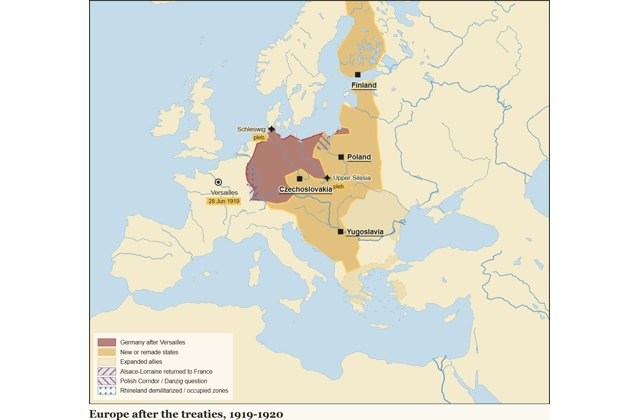
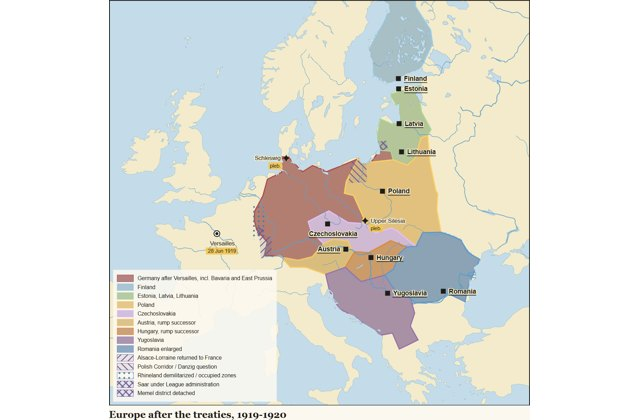
Refine First World War round five plates
Copilot-Session: 37f2f47f-8b63-49cd-b8ce-cded564ac449

diff --git a/atlas/plates/western-front-1914-1918.js b/atlas/plates/western-front-1914-1918.js
@@ -1,22 +1,30 @@
 (function(){
- const GER="#8c3b3b", ENT="#4c78a8", CAN="#b22d2d", ROAD="#5b4a3f", SPR="#d95733";
- const trench=[[-1.8,50.8],[2.9,50.9],[3.1,50.5],[2.8,50.0],[3.4,49.5],[4.1,49.1],[5.4,49.2],[5.8,48.8]];
- const spring=[[2.0,50.2],[2.9,49.9],[3.0,49.4],[4.0,49.0]];
- window.PLATES["western-front-1914-1918"]={id:"western-front-1914-1918",title:"The Western Front, 1914-1918",head:"First World War / Western theatre",folio:"124-125",viewer:"ww1/1917/ch-western-front",figures:[{caption:"From movement to trench war and the Hundred Days",share:0.76,extent:[[-2,47],[8,52]],projection:"conic",layers:[
-  {id:"france-belgium",type:"area",hist:{year:1914,names:["France","Belgium"]},colour:ENT,tier:"influence",legend:"Entente ground"},
-  {id:"germany",type:"area",hist:{year:1914,names:["German Empire"]},colour:GER,tier:"influence",legend:"German Empire edge"},
-  {id:"german-1914",type:"arrow",colour:GER,width:10,path:[[6.1,50.8],[4.35,50.85],[2.35,48.86],[3.0,49.0]],label:"Schlieffen",date:"1914",legend:"German advance, 1914"},
-  {id:"marne-turn",type:"arrow",colour:ENT,width:8,path:[[2.35,48.86],[3.0,49.0],[4.0,49.2]],label:"Marne"},
+ const GER="#8c3b3b", ENT="#4c78a8", CAN="#b22d2d", NFLD="#7a5a8c", ROAD="#5b4a3f", SPR="#d95733", OCC="#9b6a4a";
+ const trench=[[2.75,51.13],[2.88,50.85],[2.78,50.37],[2.65,49.95],[3.0,49.58],[3.32,49.38],[4.03,49.25],[4.9,49.2],[5.38,49.16],[5.54,48.9],[6.05,48.9],[7.15,47.5]];
+ const occBelgium=[[2.75,51.13],[2.88,50.85],[2.78,50.37],[2.65,49.95],[6.2,49.95],[6.2,51.55],[2.75,51.55],[2.75,51.13]];
+ const occFrance=[[2.78,50.37],[2.65,49.95],[3.0,49.58],[3.32,49.38],[4.03,49.25],[4.9,49.2],[5.38,49.16],[5.54,48.9],[6.05,48.9],[7.15,47.5],[8.0,47.5],[8.0,51.1],[2.78,50.37]];
+ const spring=[[2.0,50.3],[2.6,50.05],[2.75,49.7],[3.2,49.45],[4.0,49.2]];
+ window.PLATES["western-front-1914-1918"]={id:"western-front-1914-1918",title:"The Western Front, 1914-1918",head:"First World War / Western theatre",folio:"124-125",viewer:"ww1/1917/ch-western-front",figures:[{caption:"The Western Front from the Marne to Mons",share:0.72,extent:[[-0.5,47.3],[8,51.6]],projection:"conic",layers:[
+  {id:"france-belgium",type:"area",hist:{year:1914,names:["France","Belgium"]},colour:ENT,tier:"influence",legend:"France and Belgium, Entente ground"},
+  {id:"occupied-belgium",type:"area",hist:{year:1914,names:["Belgium"]},clipPolygon:occBelgium,pattern:"hatch",colour:OCC,legend:"German-occupied Belgium and north-east France, behind the trench line"},
+  {id:"occupied-france",type:"area",hist:{year:1914,names:["France"]},clipPolygon:occFrance,pattern:"hatch",colour:OCC},
+  {id:"schlieffen",type:"arrow",colour:GER,width:9,path:[[6.08,50.78],[5.58,50.63],[4.35,50.85],[3.95,50.45],[2.35,48.86],[1.8,48.6]],date:"1914",legend:"German sweep through Belgium toward Paris"},
+  {id:"marne-turn",type:"arrow",colour:ENT,width:8,path:[[2.0,48.75],[3.0,49.0],[3.7,49.25]],label:"Marne",date:"Sep 1914",legend:"Marne counter-stroke toward the Aisne"},
   {id:"trench",type:"boundary",style:"solid",colour:ROAD,path:trench,legend:"Main trench line, 1915-17"},
   {id:"spring",type:"boundary",style:"dashed",colour:SPR,path:spring,legend:"German spring offensive limit, 1918"},
-  {id:"hundred",type:"arrow",colour:ENT,width:8,path:[[2.30,49.89],[3.1,50.0],[4.0,49.7],[5.0,49.5]]},
-  {id:"ypres",type:"point",symbol:"battle",at:[2.89,50.85],name:"Ypres",labelPos:"nw",tag:{text:"1915 gas",colour:CAN}},
-  {id:"beaumont",type:"point",symbol:"battle",at:[2.65,50.07],name:"Beaumont-Hamel",labelPos:"sw",tag:{text:"1 Jul 1916",colour:CAN}},
-  {id:"vimy",type:"point",symbol:"battle",at:[2.77,50.38],name:"Vimy",labelPos:"e",tag:{text:"Can.",colour:CAN}},
-  {id:"passch",type:"point",symbol:"battle",at:[3.02,50.90],name:"Passchendaele",labelPos:"e",tag:{text:"1917",colour:CAN}},
-  {id:"verdun",type:"point",symbol:"battle",at:[5.39,49.16],name:"Verdun",labelPos:"e",tag:{text:"1916",colour:"#f1c75b"}},
-  {id:"somme",type:"point",symbol:"battle",at:[2.75,50.0],name:"Somme",labelPos:"e",tag:{text:"1916",colour:"#f1c75b"}},
-  {id:"amiens",type:"point",symbol:"battle",at:[2.30,49.89],name:"Amiens",labelPos:"s",tag:{text:"8 Aug",colour:CAN}},
-  {id:"compiegne",type:"point",symbol:"treaty",at:[2.90,49.42],name:"Compiègne",labelPos:"s",tag:{text:"11 Nov",colour:"#f1c75b"}}
- ],legend:{position:"bottom-left",columns:1}},{caption:"Canadian sequence on the Western Front",kind:"diagram",share:0.24,diagram:{height:0.56,nodes:[{id:"cy",label:"Ypres\n1915",x:0.12,y:0.34,w:0.15,h:0.15,colour:CAN,strong:true},{id:"cs",label:"Somme /\nBeaumont-Hamel\n1916",x:0.32,y:0.34,w:0.20,h:0.17,colour:CAN},{id:"cv",label:"Vimy\nApr. 1917",x:0.53,y:0.34,w:0.17,h:0.15,colour:CAN,strong:true},{id:"cp",label:"Passchendaele\n1917",x:0.72,y:0.34,w:0.19,h:0.15,colour:CAN},{id:"ca",label:"Amiens and\nHundred Days\n1918",x:0.90,y:0.34,w:0.18,h:0.17,colour:CAN,strong:true}],arrows:[{id:"ca1",from:"cy",to:"cs"},{id:"ca2",from:"cs",to:"cv"},{id:"ca3",from:"cv",to:"cp"},{id:"ca4",from:"cp",to:"ca"}]}}],text:{intro:"A tight Western Front frame shows what the book's theatre map compresses: movement in 1914, a trench line, attrition and the Allied break-through in 1918.",sections:[{heading:"Front",entries:[{date:"1914",text:"The German right wing advances through Belgium, is stopped at the Marne and settles into a trench line that runs from Flanders to Lorraine.",refs:["france-belgium","germany","german-1914","marne-turn","trench"]},{date:"1916-1918",text:"Verdun and the Somme mark attrition; the German spring offensives fail to decide the war, and the Hundred Days pushes east to the armistice at Compiègne.",refs:["verdun","somme","spring","hundred","amiens","compiegne"]}]},{heading:"Canada",entries:[{date:"1915-1918",text:"Canadian markers pick out Second Ypres, Beaumont-Hamel for Newfoundland, Vimy, Passchendaele and Amiens.",refs:["ypres","beaumont","vimy","passch","cy","cs","cv","cp","ca","ca1","ca2","ca3","ca4"]}]}]},sources:["Penguin Atlas Vol. 2 pp. 124-125"]};
+  {id:"hundred",type:"arrow",colour:ENT,width:8,path:[[2.30,49.89],[2.78,50.18],[3.16,50.17],[3.95,50.45]],legend:"Allied advance from Amiens to Mons"},
+  {id:"liege",type:"point",symbol:"siege",at:[5.58,50.63],name:"Liège",labelPos:"e"},
+  {id:"brussels",type:"point",symbol:"capital",at:[4.35,50.85],name:"Brussels",labelPos:"n"},
+  {id:"paris",type:"point",symbol:"capital",at:[2.35,48.86],name:"Paris",labelPos:"s"},
+  {id:"ypres",type:"point",symbol:"battle",at:[2.88,50.85],name:"2nd Ypres",labelPos:"w",tag:{text:"Can. 1915",colour:CAN}},
+  {id:"beaumont",type:"point",symbol:"battle",at:[2.65,50.07],name:"Beaumont-Hamel",labelPos:"w",tag:{text:"Nfld 1916",colour:NFLD}},
+  {id:"vimy",type:"point",symbol:"battle",at:[2.78,50.37],name:"Vimy",labelPos:"e",tag:{text:"Can. 1917",colour:CAN}},
+  {id:"passch",type:"point",symbol:"battle",at:[3.02,50.90],name:"Passchendaele",labelPos:"e",tag:{text:"Can. 1917",colour:CAN}},
+  {id:"verdun",type:"point",symbol:"battle",at:[5.38,49.16],name:"Verdun",labelPos:"e",tag:{text:"1916",colour:"#f1c75b"}},
+  {id:"somme",type:"point",symbol:"battle",at:[2.65,49.95],name:"Somme",labelPos:"se",tag:{text:"1916",colour:"#f1c75b"}},
+  {id:"amiens",type:"point",symbol:"battle",at:[2.30,49.89],name:"Amiens",labelPos:"s",tag:{text:"Can. 8 Aug",colour:CAN}},
+  {id:"canal",type:"point",symbol:"battle",at:[3.16,50.17],name:"Canal du Nord",labelPos:"e",tag:{text:"Can. 1918",colour:CAN}},
+  {id:"mons",type:"point",symbol:"battle",at:[3.95,50.45],name:"Mons",labelPos:"e",tag:{text:"Can. 11 Nov",colour:CAN}},
+  {id:"compiegne",type:"point",symbol:"treaty",at:[2.90,49.42],name:"Compiègne",labelPos:"s",tag:{text:"armistice",colour:"#f1c75b"}}
+ ],legend:{position:"bottom-left",columns:1}},{caption:"Western Front timeline",kind:"diagram",share:0.28,diagram:{height:0.56,nodes:[{id:"d1914",label:"1914: Marne",x:0.16,y:0.35,w:0.18,h:0.15,colour:ENT,strong:true},{id:"d1915",label:"1915: Ypres",x:0.34,y:0.35,w:0.16,h:0.15,colour:CAN},{id:"d1916",label:"1916: Verdun / Somme",x:0.52,y:0.35,w:0.22,h:0.15,colour:ROAD},{id:"d1917",label:"1917: Vimy / Passch.",x:0.72,y:0.35,w:0.22,h:0.15,colour:CAN},{id:"d1918",label:"1918: Amiens-Mons",x:0.88,y:0.35,w:0.22,h:0.15,colour:CAN,strong:true}],arrows:[{id:"t1",from:"d1914",to:"d1915"},{id:"t2",from:"d1915",to:"d1916"},{id:"t3",from:"d1916",to:"d1917"},{id:"t4",from:"d1917",to:"d1918"}]}}],text:{intro:"The Western Front plate now centres the continuous trench line from the Belgian coast to Belfort, with Canadian and Newfoundland actions called out separately.",sections:[{heading:"Front",entries:[{date:"1914",text:"The German right wing sweeps from Aachen through Liège and Brussels toward the west of Paris; the Marne counter-stroke pushes it back toward the Aisne.",refs:["france-belgium","occupied-belgium","occupied-france","schlieffen","marne-turn","liege","brussels","paris"]},{date:"1915-1918",text:"The trench line runs from Nieuport through Ypres, Arras/Vimy, the Somme, Soissons, Reims, Verdun, St-Mihiel and Pont-à-Mousson toward Belfort; the 1918 German offensive bulges west, then the Allied Hundred Days runs from Amiens to Mons.",refs:["trench","spring","hundred","verdun","somme","amiens","mons","compiegne"]}]},{heading:"Canada",entries:[{date:"1915-1918",text:"Canadian tags mark Second Ypres, Vimy, Passchendaele, Amiens, Canal du Nord and Mons; Beaumont-Hamel is tagged separately as Newfoundland.",refs:["ypres","beaumont","vimy","passch","canal","d1914","d1915","d1916","d1917","d1918","t1","t2","t3","t4"]}]}]},sources:["Penguin Atlas Vol. 2 pp. 124-125"]};
 })();

diff --git a/atlas/plates/versailles-europe-1919-1920.js b/atlas/plates/versailles-europe-1919-1920.js
@@ -1,23 +1,39 @@
 (function(){
- const NEW="#d8a84f", GER="#8c3b3b", LOSS="#7a5a8c", RHINE="#4c78a8", OTT="#b36b2e", BRIT="#2f5f93", FRA="#4c78a8";
+ const GER="#8c3b3b", FIN="#7aa6c2", BAL="#8cae7a", POL="#d8a84f", CZE="#b99bd8", AUS="#c9a24f", HUN="#b36b2e", YUG="#7a5a8c", ROM="#4c78a8", LOSS="#6b5b95", RHINE="#4c78a8", OTT="#b36b2e", BRIT="#2f5f93", FRA="#4c78a8";
  const alsace=[[6.8,49.1],[8.2,49.0],[8.3,47.6],[7.2,47.4],[6.8,49.1]];
  const corridor=[[17.0,53.0],[19.3,53.0],[19.3,54.6],[17.5,54.6],[17.0,53.0]];
  const rhine=[[5.8,51.3],[7.2,51.1],[7.5,48.8],[6.0,48.7],[5.8,51.3]];
- window.PLATES["versailles-europe-1919-1920"]={id:"versailles-europe-1919-1920",title:"Europe after Versailles, 1919-1920",head:"First World War / Peace treaties",folio:"132-133",viewer:"ww1/1919/ch-peace-treaties",figures:[{caption:"Europe after the treaties, 1919-1920",share:0.62,extent:[[-10,35],[45,58]],projection:"conic",layers:[
-  {id:"germany",type:"area",hist:{year:1920,names:["Germany","East Prussia"]},colour:GER,tier:"core",legend:"Germany after Versailles"},
-  {id:"new-states",type:"area",hist:{year:1920,names:["Poland","Czechoslovakia","Yugoslavia","Austria","Hungary","Finland","Estonia","Latvia","Lithuania"]},colour:NEW,tier:"core",legend:"New or remade states"},
-  {id:"romania-greece",type:"area",hist:{year:1920,names:["Romania","Greece"]},colour:"#c9a24f",tier:"influence",legend:"Expanded allies"},
+ const saar=[[6.45,49.65],[7.2,49.6],[7.25,49.05],[6.55,49.05],[6.45,49.65]];
+ const memel=[[21.0,55.2],[22.2,55.2],[22.2,55.85],[21.0,55.85],[21.0,55.2]];
+ window.PLATES["versailles-europe-1919-1920"]={id:"versailles-europe-1919-1920",title:"Europe after Versailles, 1919-1920",head:"First World War / Peace treaties",folio:"132-133",viewer:"ww1/1919/ch-peace-treaties",figures:[{caption:"Europe after the treaties, 1919-1920",share:0.68,extent:[[-6,40],[33,62]],projection:"conic",layers:[
+  {id:"germany",type:"area",hist:{year:1920,names:["Germany","East Prussia"]},colour:GER,tier:"core",legend:"Germany after Versailles, incl. Bavaria and East Prussia"},
+  {id:"finland",type:"area",hist:{year:1920,names:["Finland"]},colour:FIN,tier:"core",legend:"Finland"},
+  {id:"baltics",type:"area",hist:{year:1920,names:["Estonia","Latvia","Lithuania"]},colour:BAL,tier:"core",legend:"Estonia, Latvia, Lithuania"},
+  {id:"poland",type:"area",hist:{year:1920,names:["Poland"]},colour:POL,tier:"core",legend:"Poland"},
+  {id:"czechoslovakia",type:"area",hist:{year:1920,names:["Czechoslovakia"]},colour:CZE,tier:"core",legend:"Czechoslovakia"},
+  {id:"austria",type:"area",hist:{year:1920,names:["Austria"]},colour:AUS,tier:"core",legend:"Austria, rump successor"},
+  {id:"hungary",type:"area",hist:{year:1920,names:["Hungary"]},colour:HUN,tier:"core",legend:"Hungary, rump successor"},
+  {id:"yugoslavia",type:"area",hist:{year:1920,names:["Yugoslavia"]},colour:YUG,tier:"core",legend:"Yugoslavia"},
+  {id:"romania",type:"area",hist:{year:1920,names:["Romania"]},colour:ROM,tier:"core",legend:"Romania enlarged"},
   {id:"alsace",type:"area",polygon:alsace,smooth:false,clipToLand:true,pattern:"hatch",colour:LOSS,legend:"Alsace-Lorraine returned to France"},
   {id:"corridor",type:"area",polygon:corridor,smooth:false,clipToLand:true,pattern:"hatch-back",colour:LOSS,legend:"Polish Corridor / Danzig question"},
   {id:"rhineland",type:"area",polygon:rhine,smooth:false,clipToLand:true,pattern:"dots",colour:RHINE,legend:"Rhineland demilitarized / occupied zones"},
+  {id:"saar",type:"area",polygon:saar,smooth:false,clipToLand:true,pattern:"crosshatch",colour:LOSS,legend:"Saar under League administration"},
+  {id:"memel",type:"area",polygon:memel,smooth:false,clipToLand:true,pattern:"crosshatch",colour:LOSS,legend:"Memel district detached"},
   {id:"plebiscites",type:"point",symbol:"conference",at:[18.7,50.2],name:"Upper Silesia",labelPos:"e",tag:{text:"pleb.",colour:"#f1c75b"}},
   {id:"schleswig",type:"point",symbol:"conference",at:[9.3,54.8],name:"Schleswig",labelPos:"w",tag:{text:"pleb.",colour:"#f1c75b"}},
   {id:"versailles",type:"point",symbol:"treaty",at:[2.12,48.80],name:"Versailles",labelPos:"s",tag:{text:"28 Jun 1919",colour:"#f1c75b"}},
+  {id:"helsinki",type:"point",symbol:"capital",at:[24.94,60.17],name:"Finland",labelPos:"e"},
+  {id:"tallinn",type:"point",symbol:"capital",at:[24.75,59.44],name:"Estonia",labelPos:"e"},
+  {id:"riga",type:"point",symbol:"capital",at:[24.11,56.95],name:"Latvia",labelPos:"e"},
+  {id:"kaunas",type:"point",symbol:"capital",at:[23.90,54.90],name:"Lithuania",labelPos:"e"},
   {id:"warsaw",type:"point",symbol:"capital",at:[21.0,52.23],name:"Poland",labelPos:"e"},
   {id:"prague",type:"point",symbol:"capital",at:[14.42,50.08],name:"Czechoslovakia",labelPos:"s"},
+  {id:"vienna",type:"point",symbol:"capital",at:[16.37,48.21],name:"Austria",labelPos:"w"},
+  {id:"budapest",type:"point",symbol:"capital",at:[19.04,47.50],name:"Hungary",labelPos:"e"},
   {id:"belgrade",type:"point",symbol:"capital",at:[20.46,44.82],name:"Yugoslavia",labelPos:"e"},
-  {id:"helsinki",type:"point",symbol:"capital",at:[24.94,60.17],name:"Finland",labelPos:"s"}
- ],legend:{position:"bottom-left",columns:1}},{caption:"Mandates instead of German and Ottoman colonies",share:0.38,extent:[[28,28],[48,41]],projection:"conic",layers:[
+  {id:"bucharest",type:"point",symbol:"capital",at:[26.10,44.43],name:"Romania",labelPos:"e"}
+ ],legend:{position:"bottom-left",columns:1}},{caption:"Mandates instead of German and Ottoman colonies",share:0.32,extent:[[28,28],[48,41]],projection:"conic",layers:[
   {id:"ottoman-1920",type:"area",hist:{year:1920,names:["Ottoman Sultanate"]},colour:OTT,tier:"core",legend:"Ottoman Turkish remnant, 1920"},
   {id:"syria",type:"area",hist:{year:1920,names:["Syria (France)"]},colour:FRA,tier:"core",legend:"French mandate: Syria / Lebanon"},
   {id:"iraq-pal",type:"area",hist:{year:1920,names:["Mesopotamia (GB)","Mandatory Palestine (GB)"]},colour:BRIT,tier:"core",legend:"British mandates: Iraq and Palestine"},
@@ -25,5 +41,5 @@
   {id:"damascus",type:"point",symbol:"capital",at:[36.29,33.51],name:"Damascus",labelPos:"w"},
   {id:"baghdad",type:"point",symbol:"capital",at:[44.37,33.32],name:"Baghdad",labelPos:"e"},
   {id:"jerusalem",type:"point",symbol:"capital",at:[35.21,31.77],name:"Jerusalem",labelPos:"s"}
- ],legend:{position:"bottom-left",columns:1}}],text:{intro:"The peace treaties made new European borders and mandates, but the Wilsonian promise was filtered through victors' war aims and imperial control.",sections:[{heading:"Europe",entries:[{date:"1919-1920",text:"Germany is reduced; Poland, Czechoslovakia, Yugoslavia, Austria, Hungary, Finland and the Baltic states appear or are remade in the 1920 historical layer.",refs:["germany","new-states","romania-greece","warsaw","prague","belgrade","helsinki"]},{date:"1919-1920",text:"Alsace-Lorraine, the Polish Corridor, the Rhineland and plebiscite areas show the treaty's problem zones around Germany.",refs:["alsace","corridor","rhineland","plebiscites","schleswig","versailles"]}]},{heading:"Mandates",entries:[{date:"1920",text:"The Ottoman settlement turns Syria and Lebanon toward France, Iraq and Palestine toward Britain, and leaves Anatolia under the contested Treaty of Sèvres.",refs:["ottoman-1920","syria","iraq-pal","sevres","damascus","baghdad","jerusalem"]}]}]},sources:["Penguin Atlas Vol. 2 pp. 132-133; historical-basemaps world_1920"]};
+ ],legend:{position:"bottom-left",columns:1}}],text:{intro:"The peace treaties made new European borders and mandates, but the Wilsonian promise was filtered through victors' war aims and imperial control.",sections:[{heading:"Europe",entries:[{date:"1919-1920",text:"Germany is shown from the 1920 historical layer with Bavaria included; Finland, Estonia, Latvia, Lithuania, Poland, Czechoslovakia, Austria, Hungary, Yugoslavia and enlarged Romania are separate labelled states.",refs:["germany","finland","baltics","poland","czechoslovakia","austria","hungary","yugoslavia","romania","helsinki","tallinn","riga","kaunas","warsaw","prague","vienna","budapest","belgrade","bucharest"]},{date:"1919-1920",text:"Alsace-Lorraine, the Polish Corridor, the Rhineland, the Saar, Memel and plebiscite areas show the treaty's problem zones around Germany.",refs:["alsace","corridor","rhineland","saar","memel","plebiscites","schleswig","versailles"]}]},{heading:"Mandates",entries:[{date:"1920",text:"The Ottoman settlement turns Syria and Lebanon toward France, Iraq and Palestine toward Britain, and leaves Anatolia under the contested Treaty of Sèvres.",refs:["ottoman-1920","syria","iraq-pal","sevres","damascus","baghdad","jerusalem"]}]}]},sources:["Penguin Atlas Vol. 2 pp. 132-133; historical-basemaps world_1920"]};
 })();

diff --git a/atlas/plates/eastern-front-russia-1914-1918.js b/atlas/plates/eastern-front-russia-1914-1918.js
@@ -1,18 +1,26 @@
 (function(){
  const RUS="#6b8c3f", GER="#8c3b3b", AUS="#d8a84f", PEACE="#7a5a8c", ROAD="#5b4a3f";
+ const frontier1914=[[20.0,54.6],[21.6,53.8],[22.8,52.8],[23.7,51.4],[22.7,49.2],[25.4,48.3]];
+ const front1915=[[24.11,56.95],[25.3,55.2],[25.6,53.7],[26.1,52.12],[26.1,50.5],[25.94,48.29]];
  window.PLATES["eastern-front-russia-1914-1918"]={id:"eastern-front-russia-1914-1918",title:"The Eastern Front and Russia, 1914-1918",head:"First World War / Eastern theatre",folio:"124-129",viewer:"ww1/1917/ch-eastern-front-russia",figures:[{caption:"Eastern Front: Tannenberg, retreat, Brusilov and Brest-Litovsk",share:0.74,extent:[[12,42],[43,61]],projection:"conic",layers:[
   {id:"russia-1914",type:"area",hist:{year:1914,names:["Russian Empire"]},colour:RUS,tier:"influence",legend:"Russian Empire, 1914"},
-  {id:"germany-1914",type:"area",hist:{year:1914,names:["German Empire"]},colour:GER,tier:"core",legend:"Central Powers"},
-  {id:"austria-1914",type:"area",hist:{year:1914,names:["Austro-Hungarian Empire"]},colour:AUS,tier:"core"},
-  {id:"breast-lands",type:"area",hist:{year:1920,names:["Finland","Estonia","Latvia","Lithuania","Poland","Ukraine"]},pattern:"hatch",colour:PEACE,legend:"Lands removed from Russia at Brest-Litovsk, shown with 1920 successor shapes"},
-  {id:"tannenberg",type:"point",symbol:"battle",at:[20.13,53.49],name:"Tannenberg",labelPos:"e",tag:{text:"1914",colour:"#f1c75b"}},
-  {id:"masurian",type:"point",symbol:"battle",at:[21.7,54.1],name:"Masurian Lakes",labelPos:"ne"},
+  {id:"germany-1914",type:"area",hist:{year:1914,names:["German Empire"]},colour:GER,tier:"core",legend:"German Empire"},
+  {id:"austria-1914",type:"area",hist:{year:1914,names:["Austro-Hungarian Empire"]},colour:AUS,tier:"core",legend:"Austria-Hungary"},
+  {id:"brest-lands",type:"area",hist:{year:1920,names:["Finland","Estonia","Latvia","Lithuania","Poland","Ukraine"]},pattern:"hatch",colour:PEACE,legend:"Brest-Litovsk losses, shown with 1920 successor shapes"},
+  {id:"frontier-1914",type:"boundary",style:"dashed",colour:ROAD,path:frontier1914,legend:"1914 frontier"},
+  {id:"front-1915",type:"boundary",style:"solid",colour:GER,path:front1915,legend:"Summer 1915 front: Riga-Pinsk-Czernowitz"},
+  {id:"tannenberg",type:"point",symbol:"battle",at:[20.13,53.49],name:"Tannenberg",labelPos:"s",tag:{text:"1914",colour:"#f1c75b"}},
+  {id:"masurian",type:"point",symbol:"battle",at:[21.9,54.25],name:"Masurian Lakes",labelPos:"e"},
   {id:"gorlice",type:"point",symbol:"battle",at:[21.16,49.66],name:"Gorlice-Tarnów",labelPos:"w",tag:{text:"1915",colour:"#f1c75b"}},
-  {id:"retreat",type:"route",style:"dashed",colour:GER,weight:2.4,path:[[21.16,49.66],[21.0,52.23],[23.69,52.10],[24.11,56.95]],legend:"Central Power advance and Russian retreat, 1915"},
-  {id:"warsaw",type:"point",symbol:"city",at:[21.0,52.23],name:"Warsaw",labelPos:"s",tag:{text:"Aug 1915",colour:"#e8806a"}},
+  {id:"warsaw",type:"point",symbol:"city",at:[21.0,52.23],name:"Warsaw",labelPos:"w"},
+  {id:"pinsk",type:"point",symbol:"city",at:[26.10,52.12],name:"Pinsk",labelPos:"ne"},
+  {id:"czernowitz",type:"point",symbol:"city",at:[25.94,48.29],name:"Czernowitz",labelPos:"e"},
   {id:"riga",type:"point",symbol:"port",at:[24.11,56.95],name:"Riga",labelPos:"n",tag:{text:"1917",colour:"#e8806a"}},
-  {id:"brusilov",type:"arrow",colour:RUS,width:9,path:[[25.33,50.75],[24.03,49.84],[25.0,48.7]],label:"Brusilov",date:"1916",legend:"Russian offensive, 1916"},
+  {id:"brusilov",type:"arrow",colour:RUS,width:9,path:[[25.33,50.75],[24.71,51.22],[24.03,49.84]],label:"Brusilov",legend:"Brusilov offensive west from Lutsk toward Kovel and Lemberg"},
+  {id:"lutsk",type:"point",symbol:"battle",at:[25.33,50.75],name:"Lutsk",labelPos:"e"},
+  {id:"kovel",type:"point",symbol:"city",at:[24.71,51.22],name:"Kovel",labelPos:"w"},
+  {id:"lemberg",type:"point",symbol:"city",at:[24.03,49.84],name:"Lemberg",labelPos:"s"},
   {id:"petrograd",type:"point",symbol:"insurrection",at:[30.34,59.93],name:"Petrograd",labelPos:"w",tag:{text:"1917",colour:"#f1c75b"}},
   {id:"brest",type:"point",symbol:"treaty",at:[23.69,52.10],name:"Brest-Litovsk",labelPos:"e",tag:{text:"Mar 1918",colour:"#f1c75b"}}
- ],legend:{position:"bottom-left",columns:1}},{caption:"Revolution and exit from the war",kind:"diagram",share:0.26,diagram:{height:0.58,nodes:[{id:"feb",label:"Feb./Mar. 1917\ntsar abdicates",x:0.18,y:0.22,w:0.25,h:0.15,colour:RUS,strong:true},{id:"prov",label:"Provisional Government\ncontinues war",x:0.50,y:0.22,w:0.28,h:0.15,colour:AUS},{id:"oct",label:"Oct./Nov. 1917\nBolsheviks",x:0.80,y:0.22,w:0.24,h:0.15,colour:GER,strong:true},{id:"bl",label:"Brest-Litovsk\n3 Mar. 1918",x:0.50,y:0.62,w:0.28,h:0.15,colour:PEACE,strong:true}],arrows:[{id:"r1",from:"feb",to:"prov"},{id:"r2",from:"prov",to:"oct"},{id:"r3",from:"oct",to:"bl"}]}}],text:{intro:"Russia is Ford's gap in this round: the eastern military story and the 1917 political revolution are the same crisis seen from two angles.",sections:[{heading:"Eastern Front",entries:[{date:"1914-1915",text:"Tannenberg and Masurian Lakes stop the Russian invasion of East Prussia; Gorlice-Tarnów opens the Great Retreat through Warsaw and toward Riga.",refs:["russia-1914","germany-1914","austria-1914","tannenberg","masurian","gorlice","retreat","warsaw","riga"]},{date:"1916-1918",text:"Brusilov briefly breaks the Austro-Hungarian front, but casualties and supply failure feed revolution; Brest-Litovsk removes Poland, the Baltic lands, Finland and Ukraine from Russia's war.",refs:["brusilov","petrograd","brest","breast-lands"]}]},{heading:"Revolution",entries:[{date:"1917-1918",text:"February, the Provisional Government, October and Brest-Litovsk form the political exit sequence.",refs:["feb","prov","oct","bl","r1","r2","r3"]}]}]},sources:["Penguin Atlas Vol. 2 pp. 124-129; historical-basemaps world_1914 and world_1920"]};
+ ],legend:{position:"bottom-left",columns:1}},{caption:"Revolution and exit from the war",kind:"diagram",share:0.26,diagram:{height:0.58,nodes:[{id:"feb",label:"Feb./Mar. 1917\ntsar abdicates",x:0.18,y:0.22,w:0.25,h:0.15,colour:RUS,strong:true},{id:"prov",label:"Provisional Government\ncontinues war",x:0.50,y:0.22,w:0.28,h:0.15,colour:AUS},{id:"oct",label:"Oct./Nov. 1917\nBolsheviks",x:0.80,y:0.22,w:0.24,h:0.15,colour:GER,strong:true},{id:"bl",label:"Brest-Litovsk\n3 Mar. 1918",x:0.50,y:0.62,w:0.28,h:0.15,colour:PEACE,strong:true}],arrows:[{id:"r1",from:"feb",to:"prov"},{id:"r2",from:"prov",to:"oct"},{id:"r3",from:"oct",to:"bl"}]}}],text:{intro:"Russia is Ford's gap in this round: the eastern military story and the 1917 political revolution are the same crisis seen from two angles.",sections:[{heading:"Eastern Front",entries:[{date:"1914-1915",text:"Tannenberg and Masurian Lakes stop the Russian invasion of East Prussia. The 1914 frontier is drawn separately from the summer 1915 front, which runs Riga-Pinsk-Czernowitz after Gorlice-Tarnów and the Great Retreat.",refs:["russia-1914","germany-1914","austria-1914","frontier-1914","front-1915","tannenberg","masurian","gorlice","warsaw","pinsk","czernowitz","riga"]},{date:"1916-1918",text:"Brusilov drives west from Lutsk toward Kovel and Lemberg; casualties and supply failure feed revolution, and Brest-Litovsk removes Poland, the Baltic lands, Finland and Ukraine from Russia's war.",refs:["brusilov","lutsk","kovel","lemberg","petrograd","brest","brest-lands"]}]},{heading:"Revolution",entries:[{date:"1917-1918",text:"February, the Provisional Government, October and Brest-Litovsk form the political exit sequence.",refs:["feb","prov","oct","bl","r1","r2","r3"]}]}]},sources:["Penguin Atlas Vol. 2 pp. 124-129; historical-basemaps world_1914 and world_1920"]};
 })();

diff --git a/atlas/plates/ww1-europe-alliances-july-crisis-1914.js b/atlas/plates/ww1-europe-alliances-july-crisis-1914.js
@@ -5,14 +5,15 @@
   {id:"central-germany",type:"area",hist:{year:1914,names:["German Empire"]},colour:CEN,tier:"core",legend:"Germany"},
   {id:"central-austria",type:"area",hist:{year:1914,names:["Austro-Hungarian Empire"]},colour:AUS,tier:"core",legend:"Austria-Hungary"},
   {id:"ottoman-neutral",type:"area",hist:{year:1914,names:["Ottoman Empire"]},colour:NEU,tier:"influence",legend:"Armed neutral in Aug.; enters Nov. 1914"},
-  {id:"italy-neutral",type:"area",hist:{year:1914,names:["Kingdom of Italy"]},colour:NEU,tier:"influence",legend:"Italy neutral in 1914"},
-  {id:"schlieffen",type:"arrow",colour:CEN,width:10,path:[[7.1,50.7],[4.35,50.85],[2.35,48.86]],label:"right wing"},
+  {id:"italy-neutral",type:"area",hist:{year:1914,names:["Kingdom of Italy"]},colour:NEU,tier:"influence",legend:"Italy neutral in 1914; joins Entente May 1915"},
+  {id:"schlieffen",type:"arrow",colour:CEN,width:10,path:[[7.1,50.7],[4.35,50.85],[2.35,48.86]],legend:"German right wing through Belgium"},
   {id:"russian-mobil",type:"arrow",colour:ENT,width:8,path:[[30.34,59.93],[20.13,53.49]],label:"Russian mobilization",date:"30 Jul"},
   {id:"sarajevo",type:"point",symbol:"conflict",at:[18.41,43.86],name:"Sarajevo",labelPos:"e",tag:{text:"28 Jun",colour:"#f1c75b"}},
   {id:"vienna",type:"point",symbol:"capital",at:[16.37,48.21],name:"Vienna",labelPos:"w"},
   {id:"belgrade",type:"point",symbol:"capital",at:[20.46,44.82],name:"Belgrade",labelPos:"e"},
   {id:"berlin",type:"point",symbol:"capital",at:[13.40,52.52],name:"Berlin",labelPos:"n"},
   {id:"paris",type:"point",symbol:"capital",at:[2.35,48.86],name:"Paris",labelPos:"s"},
-  {id:"brussels",type:"point",symbol:"capital",at:[4.35,50.85],name:"Brussels",labelPos:"ne"}
- ],legend:{position:"bottom-left",columns:1}},{caption:"July Crisis timeline",kind:"diagram",share:0.30,diagram:{height:0.55,nodes:[{id:"d1",label:"28 Jun\nSarajevo",x:0.10,y:0.35,w:0.15,h:0.18,colour:AUS,strong:true},{id:"d2",label:"23 Jul\nultimatum",x:0.28,y:0.35,w:0.15,h:0.18,colour:AUS},{id:"d3",label:"28 Jul\nwar on Serbia",x:0.46,y:0.35,w:0.15,h:0.18,colour:CEN,strong:true},{id:"d4",label:"1 Aug\nGermany-Russia",x:0.64,y:0.35,w:0.15,h:0.18,colour:CEN},{id:"d5",label:"3-4 Aug\nFrance, Belgium, Britain",x:0.84,y:0.35,w:0.20,h:0.18,colour:ENT,strong:true}],arrows:[{id:"a12",from:"d1",to:"d2"},{id:"a23",from:"d2",to:"d3"},{id:"a34",from:"d3",to:"d4"},{id:"a45",from:"d4",to:"d5"}]}}],text:{intro:"The plate follows the book's argument: causes accumulated, but the July Crisis turned distrust and mobilization plans into war.",sections:[{heading:"Alliances",entries:[{date:"August 1914",text:"The Entente side includes France, Russia, Britain, Belgium, Serbia and Montenegro; Germany and Austria-Hungary are the central alliance, with the Ottoman Empire not yet formally at war and Italy neutral.",refs:["entente","central-germany","central-austria","ottoman-neutral","italy-neutral","berlin","paris","brussels"]},{date:"August-September 1914",text:"Germany's western plan moves through Belgium toward Paris while Russian mobilization pulls the eastern front into motion.",refs:["schlieffen","russian-mobil"]}]},{heading:"July Crisis",entries:[{date:"28 Jun.-4 Aug. 1914",text:"Sarajevo, the Austro-Hungarian ultimatum, war on Serbia, German war on Russia and the invasion of Belgium form the crisis chain.",refs:["sarajevo","vienna","belgrade","d1","d2","d3","d4","d5","a12","a23","a34","a45"]}]}]},sources:["Penguin Atlas Vol. 2 pp. 122-123; historical-basemaps world_1914"]};
+  {id:"brussels",type:"point",symbol:"capital",at:[4.35,50.85],name:"Brussels",labelPos:"ne"},
+  {id:"rome-italy",type:"point",symbol:"capital",at:[12.50,41.90],name:"Italy neutral",labelPos:"e",tag:{text:"joins May 1915",colour:NEU}}
+ ],legend:{position:"bottom-left",columns:1}},{caption:"July Crisis timeline",kind:"diagram",share:0.30,diagram:{height:0.55,nodes:[{id:"d1",label:"28 Jun Sarajevo",x:0.13,y:0.35,w:0.18,h:0.18,colour:AUS,strong:true},{id:"d2",label:"23 Jul ultimatum",x:0.31,y:0.35,w:0.20,h:0.18,colour:AUS},{id:"d3",label:"28 Jul Serbia",x:0.50,y:0.35,w:0.18,h:0.18,colour:CEN,strong:true},{id:"d4",label:"1 Aug Ger.-Rus.",x:0.68,y:0.35,w:0.18,h:0.18,colour:CEN},{id:"d5",label:"3-4 Aug west",x:0.86,y:0.35,w:0.20,h:0.18,colour:ENT,strong:true}],arrows:[{id:"a12",from:"d1",to:"d2"},{id:"a23",from:"d2",to:"d3"},{id:"a34",from:"d3",to:"d4"},{id:"a45",from:"d4",to:"d5"}]}}],text:{intro:"The plate follows the book's argument: causes accumulated, but the July Crisis turned distrust and mobilization plans into war.",sections:[{heading:"Alliances",entries:[{date:"August 1914",text:"The Entente side includes France, Russia, Britain, Belgium, Serbia and Montenegro; Germany and Austria-Hungary are the central alliance, with the Ottoman Empire not yet formally at war and Italy neutral.",refs:["entente","central-germany","central-austria","ottoman-neutral","italy-neutral","rome-italy","berlin","paris","brussels"]},{date:"August-September 1914",text:"Germany's western plan moves through Belgium toward Paris while Russian mobilization pulls the eastern front into motion.",refs:["schlieffen","russian-mobil"]}]},{heading:"July Crisis",entries:[{date:"28 Jun.-4 Aug. 1914",text:"Sarajevo, the Austro-Hungarian ultimatum, war on Serbia, German war on Russia and the invasion of Belgium form the crisis chain.",refs:["sarajevo","vienna","belgrade","d1","d2","d3","d4","d5","a12","a23","a34","a45"]}]}]},sources:["Penguin Atlas Vol. 2 pp. 122-123; historical-basemaps world_1914"]};
 })();

diff --git a/atlas/plates/world-at-war-1914-1918.js b/atlas/plates/world-at-war-1914-1918.js
@@ -1,5 +1,5 @@
 (function(){
- const ENT="#4c78a8", CEN="#8c3b3b", USA="#2f7f86", JPN="#387a5b", LAB="#d8a84f", ROAD="#5b4a3f";
+ const ENT="#4c78a8", CEN="#8c3b3b", USA="#2f7f86", JPN="#387a5b", LAB="#d8a84f", ROAD="#5b4a3f", LATE="#9aa657";
  window.PLATES["world-at-war-1914-1918"]={id:"world-at-war-1914-1918",title:"The world at war, 1914-1918",head:"First World War / Global war",folio:"126-129",viewer:"ww1/1917/ch-world-war-global",figures:[{caption:"Belligerents, empires and labour flows",share:0.76,extent:[[-180,-56],[180,78]],projection:"naturalEarth",base:{cropToExtent:true},layers:[
   {id:"entente-1914",type:"area",hist:{year:1914,names:["United Kingdom of Great Britain and Ireland","France","Russian Empire","Belgium","Serbia","Montenegro","British Raj","Canada","Australia","New Zealand","Egypt","South Africa"]},colour:ENT,tier:"core",legend:"Entente empires and allies from 1914"},
   {id:"central-1914",type:"area",hist:{year:1914,names:["German Empire","Austro-Hungarian Empire","Ottoman Empire","Bulgaria"]},colour:CEN,tier:"core",legend:"Central Powers by late 1915"},
@@ -13,6 +13,8 @@
   {id:"tsingtao",type:"point",symbol:"battle",at:[120.38,36.07],name:"Tsingtao",labelPos:"s",tag:{text:"1914",colour:JPN}},
   {id:"demands",type:"point",symbol:"conference",at:[116.41,39.90],name:"Twenty-One Demands",labelPos:"n",tag:{text:"1915",colour:JPN}},
   {id:"us-entry",type:"point",symbol:"power",at:[-77.04,38.90],name:"U.S. entry",labelPos:"e",tag:{text:"1917",colour:USA}},
-  {id:"lettow",type:"point",symbol:"battle",at:[37.0,-6.0],name:"Lettow-Vorbeck",labelPos:"e",tag:{text:"to 1918",colour:CEN}}
- ],legend:{position:"bottom-left",columns:2}},{caption:"Why the war becomes global",kind:"diagram",share:0.24,diagram:{height:0.58,nodes:[{id:"emp",label:"empires supply troops, carriers and food",x:0.28,y:0.18,w:0.42,h:0.14,colour:ENT,strong:true},{id:"sea",label:"submarine war and sea control",x:0.73,y:0.18,w:0.34,h:0.14,colour:ROAD},{id:"asia",label:"Japan in China; 21 Demands",x:0.28,y:0.60,w:0.34,h:0.14,colour:JPN},{id:"america",label:"U.S. entry, 1917",x:0.72,y:0.60,w:0.28,h:0.14,colour:USA,strong:true}],arrows:[{id:"g1",from:"emp",to:"sea"},{id:"g2",from:"sea",to:"america"},{id:"g3",from:"emp",to:"asia"}]}}],text:{intro:"The First World War was global because empires mobilized territory, labour and sea routes, and because Japan and the United States made the war wider than Europe.",sections:[{heading:"Belligerents",entries:[{date:"1914-1917",text:"Entente and Central Power empires are coloured from the 1914 historical map; the United States is added at its 1917 entry and Japan is marked in East Asia.",refs:["entente-1914","central-1914","japan","usa","tsingtao","demands","us-entry"]}]},{heading:"Colonial and global labour",entries:[{date:"1914-1918",text:"Indian troops serve in France and Mesopotamia, Chinese labourers support the Western Front, Dominion forces cross the Atlantic, and African carriers sustain the East African campaign against Lettow-Vorbeck.",refs:["india-france","india-meso","chinese-labour","dominions","africa-carriers","lettow","emp","sea","asia","america","g1","g2","g3"]}]}]},sources:["Penguin Atlas Vol. 2 pp. 126-129; historical-basemaps world_1914"]};
+  {id:"lettow",type:"point",symbol:"battle",at:[37.0,-6.0],name:"Lettow-Vorbeck",labelPos:"e",tag:{text:"to 1918",colour:CEN}},
+  {id:"china-later",type:"point",symbol:"capital",at:[116.41,39.90],name:"China neutral; enters 1917",labelPos:"w",legend:"Later entrants: China and Brazil, 1917"},
+  {id:"brazil-later",type:"point",symbol:"capital",at:[-47.88,-15.79],name:"Brazil",labelPos:"e",tag:{text:"1917",colour:LATE}}
+ ],legend:{position:"bottom-left",columns:2}},{caption:"Why the war becomes global",kind:"diagram",share:0.24,diagram:{height:0.58,nodes:[{id:"emp",label:"empires supply troops, carriers and food",x:0.28,y:0.18,w:0.42,h:0.14,colour:ENT,strong:true},{id:"sea",label:"submarine war and sea control",x:0.73,y:0.18,w:0.34,h:0.14,colour:ROAD},{id:"asia",label:"Japan in China; 21 Demands",x:0.28,y:0.60,w:0.34,h:0.14,colour:JPN},{id:"america",label:"U.S. entry, 1917",x:0.72,y:0.60,w:0.28,h:0.14,colour:USA,strong:true}],arrows:[{id:"g1",from:"emp",to:"sea"},{id:"g2",from:"sea",to:"america"},{id:"g3",from:"emp",to:"asia"}]}}],text:{intro:"The First World War was global because empires mobilized territory, labour and sea routes, and because Japan and the United States made the war wider than Europe.",sections:[{heading:"Belligerents",entries:[{date:"1914-1917",text:"Entente and Central Power empires are coloured from the 1914 historical map; the United States is added at its 1917 entry and Japan is marked in East Asia; China and Brazil are noted as later 1917 entrants rather than 1914 belligerents.",refs:["entente-1914","central-1914","japan","usa","tsingtao","demands","us-entry","china-later","brazil-later"]}]},{heading:"Colonial and global labour",entries:[{date:"1914-1918",text:"Indian troops serve in France and Mesopotamia, Chinese labourers support the Western Front, Dominion forces cross the Atlantic, and African carriers sustain the East African campaign against Lettow-Vorbeck.",refs:["india-france","india-meso","chinese-labour","dominions","africa-carriers","lettow","emp","sea","asia","america","g1","g2","g3"]}]}]},sources:["Penguin Atlas Vol. 2 pp. 126-129; historical-basemaps world_1914"]};
 })();

diff --git a/atlas/plates/middle-east-secondary-theatres-1914-1918.js b/atlas/plates/middle-east-secondary-theatres-1914-1918.js
@@ -10,7 +10,7 @@
   {id:"gallipoli",type:"point",symbol:"battle",at:[26.35,40.15],name:"Gallipoli",labelPos:"e",tag:{text:"1915",colour:"#f1c75b"}},
   {id:"kut",type:"point",symbol:"siege",at:[45.82,32.51],name:"Kut",labelPos:"e",tag:{text:"1916",colour:"#e8806a"}},
   {id:"baghdad",type:"point",symbol:"capital",at:[44.37,33.32],name:"Baghdad",labelPos:"ne",tag:{text:"Mar 1917",colour:"#f1c75b"}},
-  {id:"mesopotamia",type:"route",style:"dashed",colour:BRIT,weight:2.4,path:[[47.78,30.51],[45.82,32.51],[44.37,33.32]],legend:"British-Indian Mesopotamia campaign"},
+  {id:"mesopotamia",type:"route",style:"dashed",colour:BRIT,weight:4.2,path:[[47.78,30.51],[45.82,32.51],[44.37,33.32]],legend:"British-Indian Mesopotamia campaign"},
   {id:"palestine",type:"route",style:"dashed",colour:BRIT,weight:2.4,path:[[32.55,30.0],[34.47,31.50],[35.21,31.77],[35.18,32.58]],legend:"Palestine campaign"},
   {id:"jerusalem",type:"point",symbol:"capital",at:[35.21,31.77],name:"Jerusalem",labelPos:"e",tag:{text:"Dec 1917",colour:"#f1c75b"}},
   {id:"megiddo",type:"point",symbol:"battle",at:[35.18,32.58],name:"Megiddo",labelPos:"w",tag:{text:"1918",colour:"#e8806a"}},
